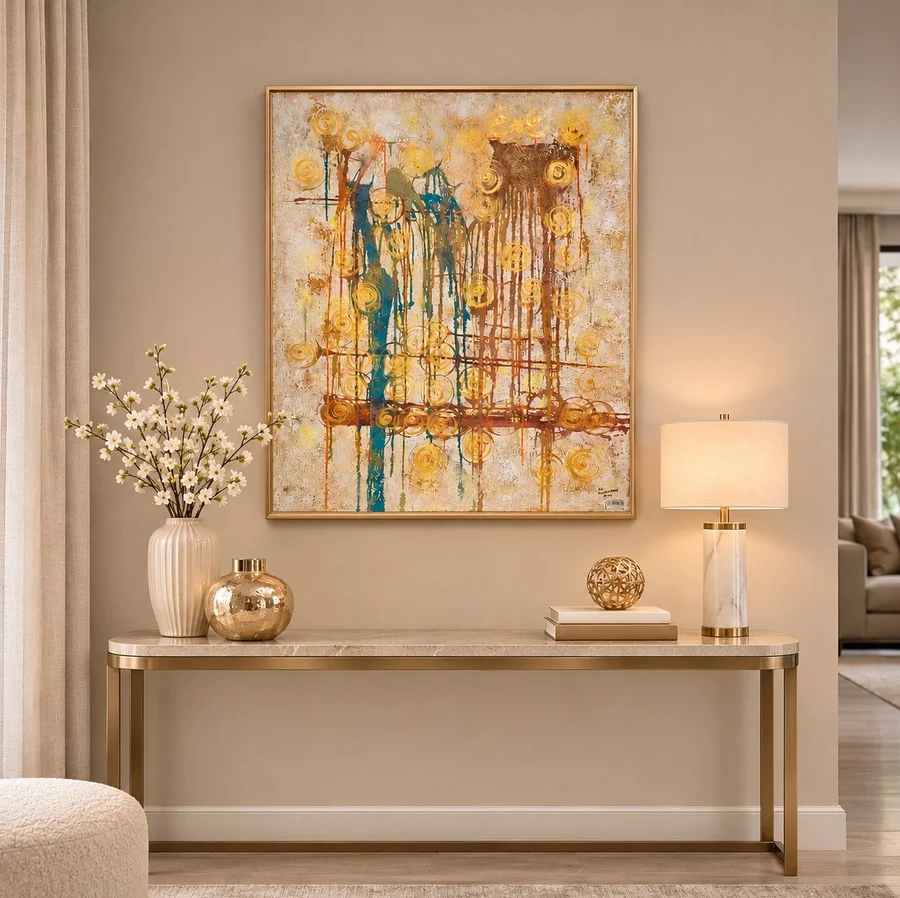
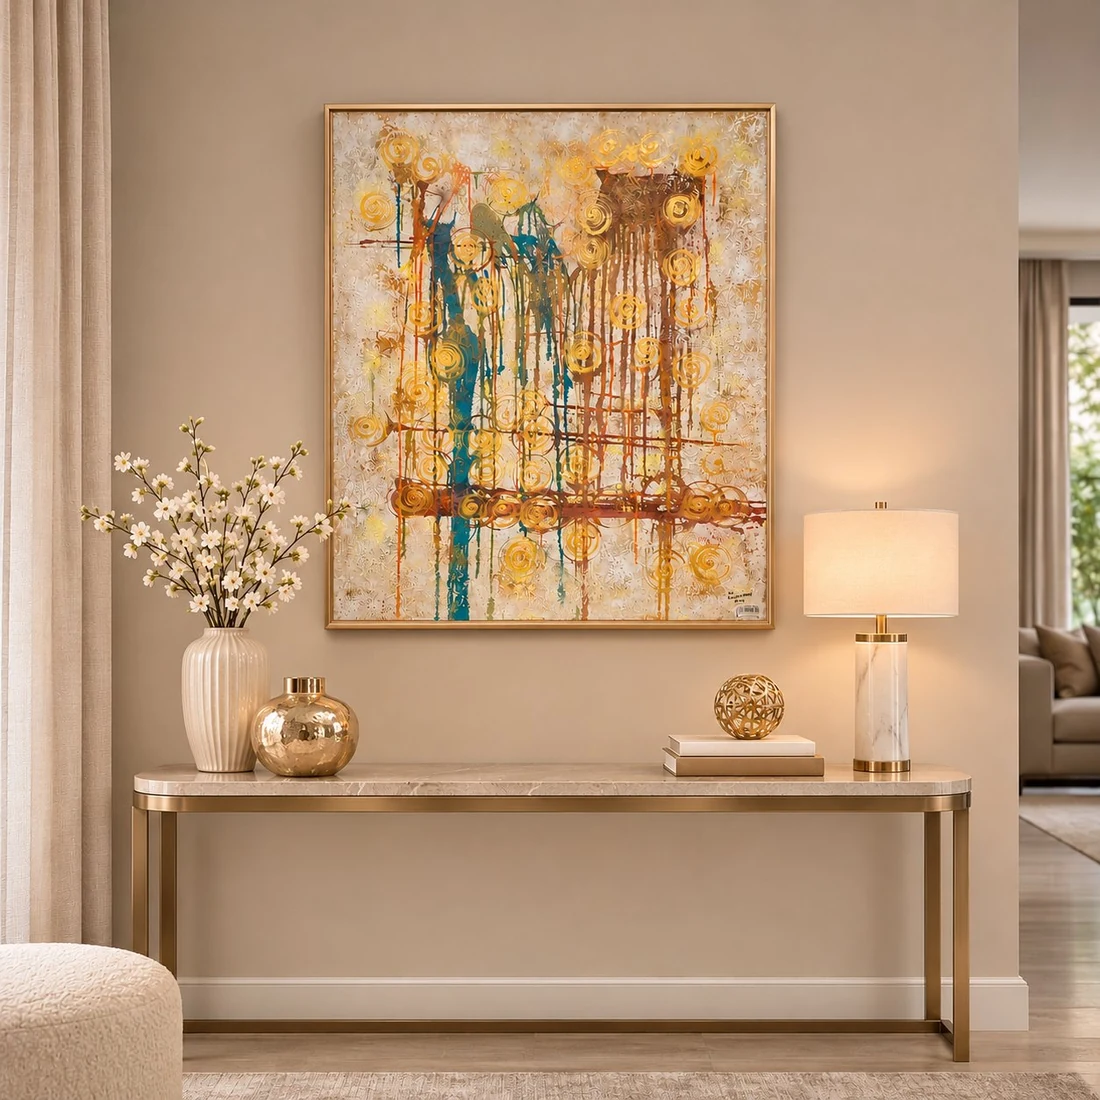
Before/After: befores are now the products' own photos with the piece removed (LaMa inpainting) — pixel-matched, full quality; wall art + reindeer replace floor pots + centerpiece

diff --git a/home-motion.js b/home-motion.js
@@ -19,13 +19,13 @@
 
   /* ------------------------------------------------------------------
      Before / After rooms. "slug" = the product shown in the After photo.
-     Images live in before-after/ (900px webp).
+     Images live in before-after/ (square webp). Each Before is the product's own photo with the piece removed (LaMa inpainting), so both halves match pixel for pixel.
      ------------------------------------------------------------------ */
   var ROOMS = [
     { slug: 'modern-colorful-abstract-painting-with-gold-frame-110-90-cm', room: { en: 'Entrance console', ar: 'كونسول المدخل' } },
-    { slug: 'hammered-gold-floor-pots-modern-decorative-metal-planters', room: { en: 'Hallway corner', ar: 'ركن الممر' } },
+    { slug: 'golden-teal-bloom-metal-wall-art-120-70-cm-the-pink-room', room: { en: 'Console wall', ar: 'حائط الكونسول' } },
     { slug: 'sculptural-glass-sphere-floor-lamp-size-h-180-cm', room: { en: 'Living room', ar: 'غرفة المعيشة' } },
-    { slug: 'handmade-christmas-centerpiece-in-hammered-gold-bowl-red-green', room: { en: 'Christmas table', ar: 'طاولة الكريسماس' } }
+    { slug: 'royal-reindeer-christmas-statue-white-gold-40-cm', room: { en: 'Christmas mantel', ar: 'ركن الكريسماس' } }
   ];
   var T = AR ? {
     eyebrow: 'قبل &nbsp;/&nbsp; بعد', title: 'قطعة واحدة.<br><em>غرفة مختلفة.</em>',
@@ -62,7 +62,7 @@
     var tagB = $('baTagB'), tagA = $('baTagA'), piece = document.querySelector('.ba-piece');
     var cur = -1, pos = 50, target = 50, anim = false, introDone = false;
 
-    function src(i, kind) { return 'before-after/room-' + (i + 1) + '-' + kind + '.webp'; }
+    function src(i, kind) { return 'before-after/room-' + (i + 1) + '-' + kind + '.webp?v=2'; }
 
     // smooth follow: the handle eases toward the pointer instead of snapping
     function loop() {
